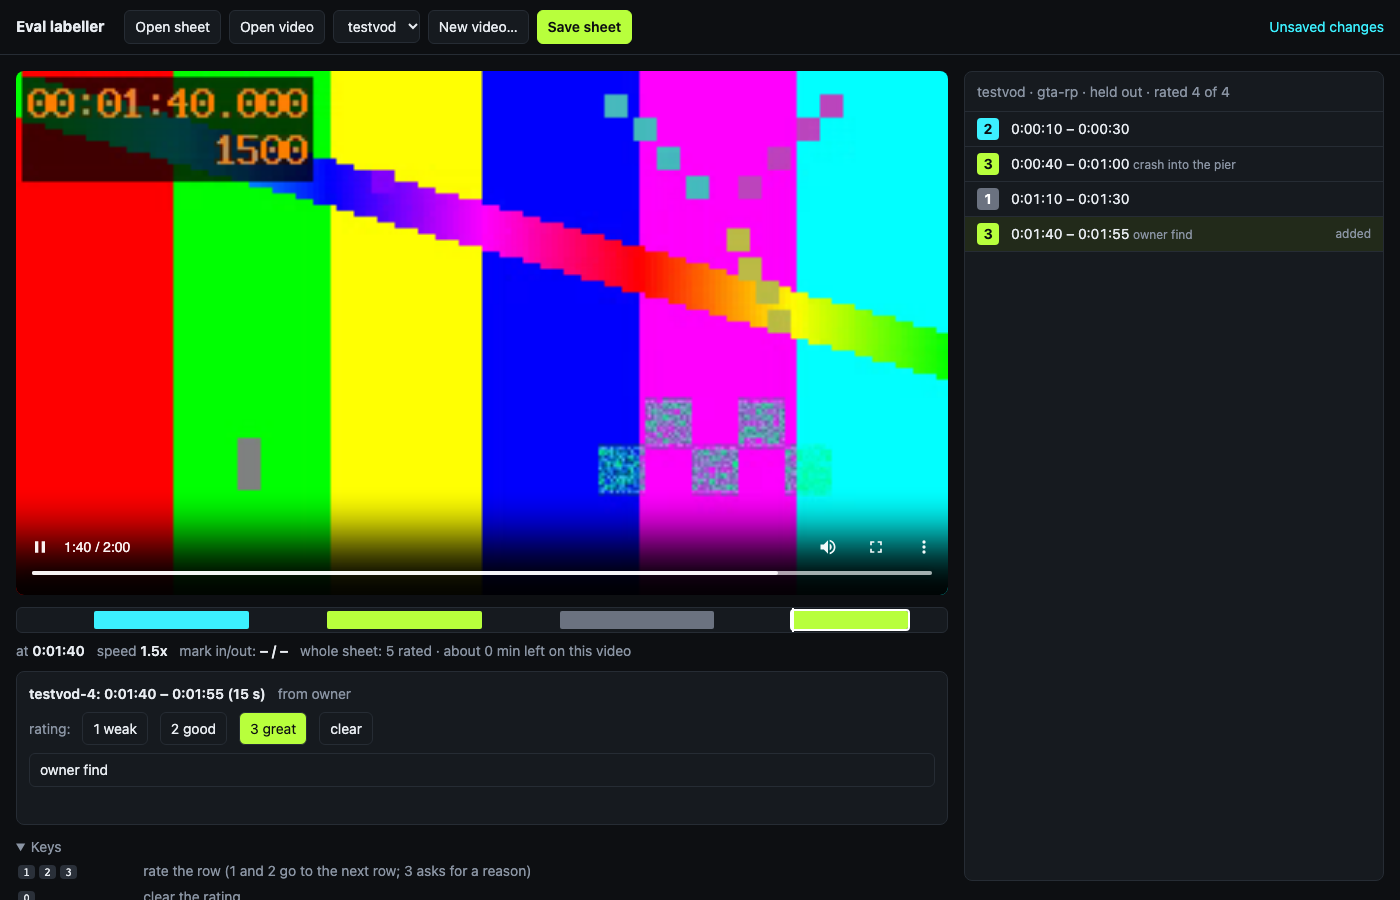
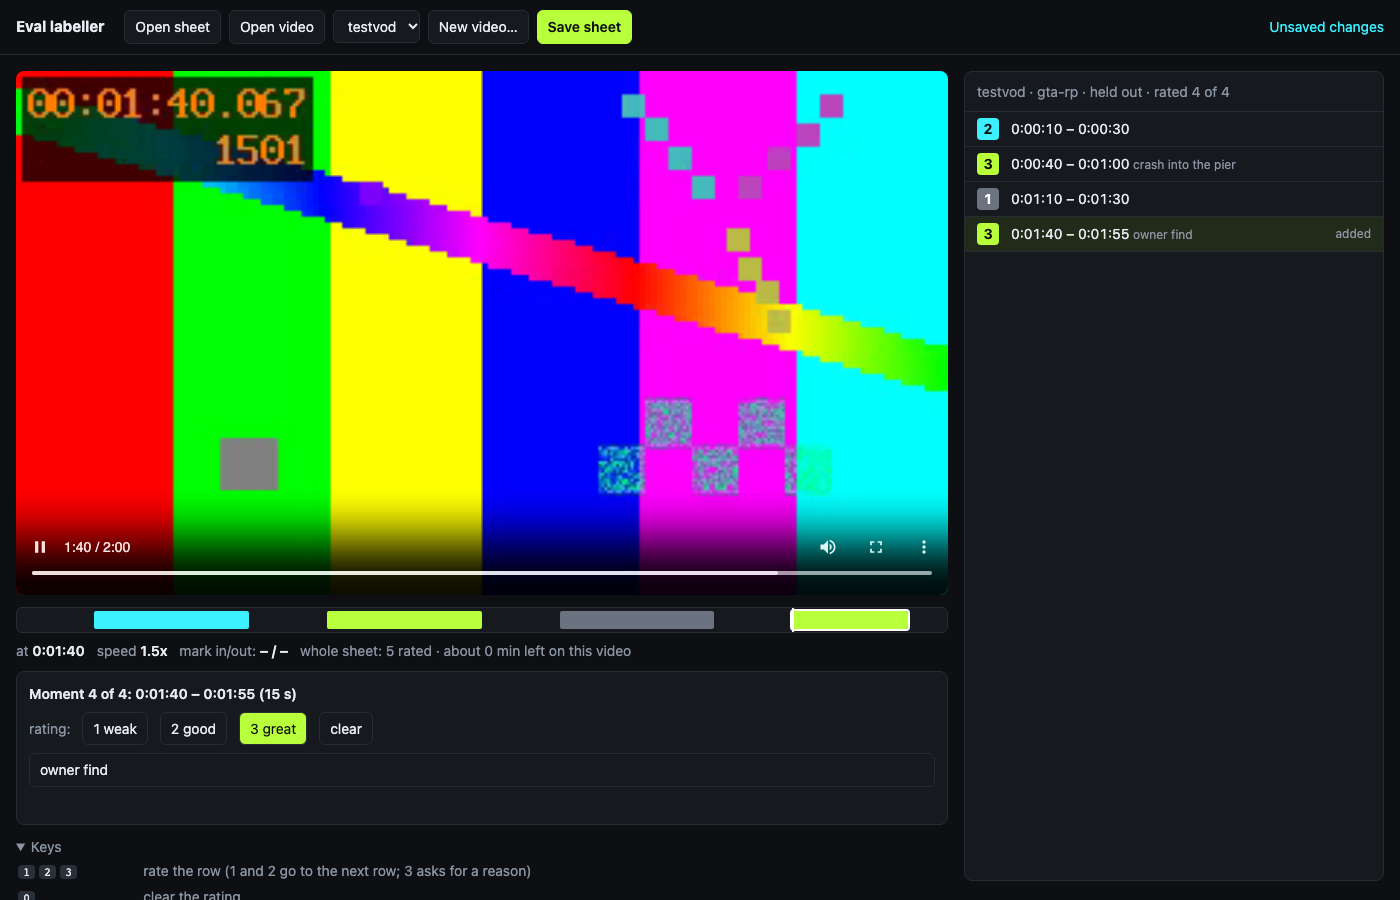
✨ [feat] eval: blind labeller, no source or id while rating
- rows show their place in time only; source stays in the CSV
- headless Chrome run: rows in time order, no system named, sheet saved and valid

Refs #105

diff --git a/clip-api/eval/labeller.html b/clip-api/eval/labeller.html
@@ -78,7 +78,7 @@
     </div>
     <div id="current">
       <div class="bar" style="margin-top:0">
-        <b id="curTitle">No row selected</b><span id="curSource"></span>
+        <b id="curTitle">No row selected</b>
       </div>
       <div class="bar rates">
         rating:
@@ -252,7 +252,7 @@ function problems(r) {
   if (r.rating) for (const o of mine()) {
     if (o === r || !o.rating) continue;
     const ov = Math.max(0, Math.min(r.end, o.end) - Math.max(r.start, o.start));
-    if (ov > Math.min(len, o.end - o.start) / 2) out.push(`overlaps ${o.id} by more than half: trim one, or clear one`);
+    if (ov > Math.min(len, o.end - o.start) / 2) out.push(`overlaps the moment at ${hms(o.start)} by more than half: trim one, or clear one`);
   }
   return out;
 }
@@ -273,8 +273,8 @@ function draw() {
     + (markIn !== null ? `<div class="mark" style="left:${100 * markIn / dur}%;width:${100 * Math.max(0, (markOut ?? player.currentTime) - markIn) / dur}%"></div>` : "")
     + `<div class="head" style="left:${100 * (player.currentTime || 0) / dur}%"></div>`;
   const r = current();
-  $("curTitle").textContent = r ? `${r.id}: ${hms(r.start)} – ${hms(r.end)} (${Math.round(r.end - r.start)} s)` : "No row selected";
-  $("curSource").textContent = r ? "from " + (r.source || "?") : "";
+  // Blind rating: rows show their place in time only, never their id or source (which system offered them).
+  $("curTitle").textContent = r ? `Moment ${cur + 1} of ${mine().length}: ${hms(r.start)} – ${hms(r.end)} (${Math.round(r.end - r.start)} s)` : "No row selected";
   document.querySelectorAll(".rates button").forEach((b) => b.classList.toggle("on", !!r && b.dataset.r === r.rating && !!r.rating));
   if (document.activeElement !== $("reason")) $("reason").value = r ? r.reason || "" : "";
   $("warn").textContent = r ? problems(r).join(" · ") : "";
@@ -327,10 +327,10 @@ function addMoment() {
   const r = { id: `${vod}-${n}`, vod, game: info.game, start: markIn, end: markOut, rating: "", reason: "",
               held_out: info.held_out, source: "owner" };
   rows.push(r); markIn = markOut = null; changed();
-  go(mine().indexOf(r), false); status(`Added ${r.id}: rate it`);
+  go(mine().indexOf(r), false); status("Added a moment: rate it");
 }
 function removeAdded() {
-  const r = current(); if (!r || r.source !== "owner" || !confirm(`Delete ${r.id}?`)) return;
+  const r = current(); if (!r || r.source !== "owner" || !confirm(`Delete the moment you added at ${hms(r.start)}?`)) return;
   rows.splice(rows.indexOf(r), 1); changed(); go(cur, false);
 }
 setSpeed(0);
